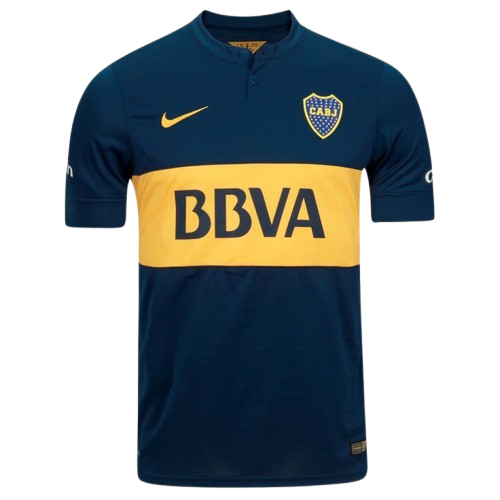
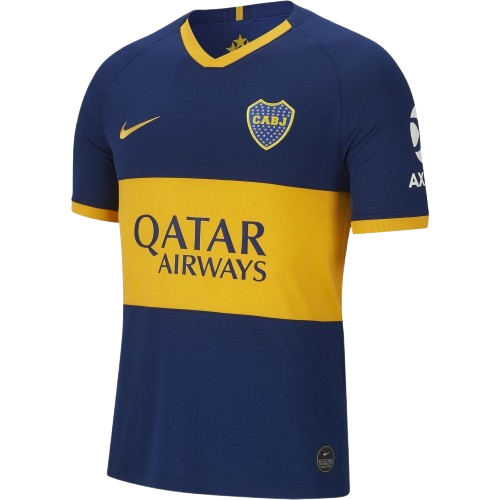
v1.2

diff --git a/index.html b/index.html
@@ -36,31 +36,31 @@
 <aside class="sidebar2">
     <nav>
         <ul>
-            <li><a href="#"><img src="images/ligas/turca.png" alt="Liga Turca" width="110px" height="100px"></a></li>
-            <li><a href="#"><img src="images/ligas/portuguesa.jpg" alt="Liga Portuguesa" width="110px" height="100px"></a></li>
-            <li><a href="#"><img src="images/ligas/saudi.png" alt="Liga Saudí" width="110px" height="100px"></a></li>
-            <li><a href="#"><img src="images/ligas/mls.png" alt="Liga Estadounidense" width="100px" height="90px"></a></li>
-            <li><a href="#"><img src="images/ligas/belga.jpg" alt="Liga Belga" width="110px" height="100px"></a></li>
+            <li><img src="images/ligas/turca.png" alt="Liga Turca" width="110px" height="100px"></li>
+            <li><img src="images/ligas/portuguesa.jpg" alt="Liga Portuguesa" width="110px" height="100px"></li>
+            <li><img src="images/ligas/saudi.png" alt="Liga Saudí" width="110px" height="100px"></li>
+            <li><img src="images/ligas/mls.png" alt="Liga Estadounidense" width="100px" height="90px"></li>
+            <li><img src="images/ligas/belga.jpg" alt="Liga Belga" width="110px" height="100px"></li>
         </ul>
     </nav>
 </aside>
 
 <main>
-    <section class="c1" title="Camiseta del Valencia"><img src="images/valencia.png" alt="Camiseta valencia" width="270px" height="300px"><p>VALENCIA CF 2ª EQUIPACION 24-25</p></section>
-    <section class="c2" title="Camiseta de Aston Villa"><img src="images/villa.png" alt="Camiseta villa" width="270px" height="300px"><p>ASTON VILLA 1ª EQUIPACION 24-25</p></section>
-    <section class="c3" title="Camiseta del PSG"><img src="images/psg.png" alt="Camiseta psg" width="270px" height="300px"><p>PSG 1ª EQUIPACION 15-16</p></section>
-    <section class="c4" title="Camiseta de Boca Juniors"><img src="images/boca.png" alt="Camiseta boca" width="270px" height="300px"><p>BOCA JUNIORS 1ª EQUIPACION 24-25</p></section>
-    <section class="c5" title="Camiseta del Atlético de Madrid"><img src="images/atleti.png" alt="Camiseta atleti" width="270px" height="300px"><p>ATLÉTICO DE MADRID 1ª EQUIPACION 20-21</p></section>
-    <section class="c6" title="Camiseta del Manchester City"><img src="images/city.png" alt="Camiseta city" width="270px" height="300px"><p>MANCHESTER CITY 1ª EQUIPACION 24-25</p></section>
-    <section class="c7" title="Camiseta del Liverpool"><img src="images/liverpool.png" alt="Camiseta liverpool" width="270px" height="300px"><p>LIVERPOOL TRAINING 24-25</p></section>
-    <section class="c8" title="Camiseta del Real Madrid"><img src="images/madrid.png" alt="Camiseta madrid" width="270px" height="300px"><p>REAL MADRID CF 1ª EQUIPACION 14-15</p></section>
-    <section class="c9" title="Camiseta del Manchester United"><img src="images/manunited.png" alt="Camiseta manunited" width="270px" height="300px"><p>MANCHESTER UNITED 2ª EQUIPACION 15-16</p></section>
-    <section class="c10" title="Camiseta del Bayern de Múnich"><img src="images/munchen.png" alt="Camiseta munchen" width="270px" height="300px"><p>BAYERN DE MÚNICH 1ª EQUIPACION 21-22</p></section>
-    <section class="c11" title="Camiseta del Negreira FC"><img src="images/negreira.png" alt="Camiseta negreira" width="270px" height="300px"><p>FC BARCELONA 3ª EQUIPACION 19-20</p></section>
-    <section class="c12" title="Camiseta de Perú"><img src="images/peru.png" alt="Camiseta peru" width="270px" height="300px"><p>PERÚ 1ª EQUIPACION 24-25</p></section>
-    <section class="c13" title="Camiseta de Colombia"><img src="images/colombia.png" alt="Camiseta colombia" width="280px" height="300px"><p>COLOMBIA 2ª EQUIPACION 22-23</p></section>
-    <section class="c14" title="Camiseta de España FC"><img src="images/españa.png" alt="Camiseta españa" width="270px" height="300px"><p>ESPAÑA 1ª EQUIPACION 24-25</p></section>
-    <section class="c15" title="Camiseta del Zenit"><img src="images/zenit.png" alt="Camiseta zenit" width="270px" height="300px"><p>ZENIT 1ª EQUIPACION 24-25</p></section>
+    <section><a href="https://www.futbollufo.com/nueva-camisetas-de-futbol-valencia-cf-segunda-20222023-p-19692.html" rel="noopener" class="c1" title="Camiseta del Valencia"><img src="images/valencia.png" alt="Camiseta valencia" width="270px" height="300px"><p>VALENCIA CF 2ª EQUIPACION 22-23</p></a></section>
+    <section><a href="https://www.futbollufo.com/nueva-camisetas-de-futbol-aston-villa-primera-20222023-p-19577.html" rel="noopener" class="c2" title="Camiseta del Aston Villa"><img src="images/villa.png" alt="Camiseta villa" width="280px" height="300px"><p>ASTON VILLA 1ª EQUIPACION 22-23</p></a></section>
+    <section><a href="https://www.futbollufo.com/camiseta-futbol-psg-retro-primera-20182019-p-7947.html" rel="noopener" class="c3" title="Camiseta del PSG"><img src="images/psg.png" alt="Camiseta psg" width="270px" height="300px"><p>PSG 1ª EQUIPACION 18-19</p></a></section>
+    <section><a href="https://www.futbollufo.com/primera-camiseta-del-boca-juniors-20182019-p-3147.html" rel="noopener" class="c4" title="Camiseta de Boca Juniors"><img src="images/boca.png" alt="Camiseta boca" width="270px" height="300px"><p>BOCA JUNIORS 1ª EQUIPACION 18-19</p></a></section>
+    <section><a href="#" rel="noopener" class="c5" title="Camiseta del Atletico de Madrid"><img src="images/atleti.png" alt="Camiseta atleti" width="270px" height="300px"><p>ATLÉTICO DE MADRID 1ª EQUIPACION 20-21</p></a></section>
+    <section><a href="#" rel="noopener" class="c6" title="Camiseta del Manchester City"><img src="images/city.png" alt="Camiseta city" width="270px" height="300px"><p>MANCHESTER CITY 1ª EQUIPACION 24-25</p></a></section>
+    <section><a href="#" rel="noopener" class="c7" title="Camiseta del Liverpool"><img src="images/liverpool.png" alt="Camiseta liverpool" width="270px" height="300px"><p>LIVERPOOL TRAINING 24-25</p></a></section>
+    <section><a href="#" rel="noopener" class="c8" title="Camiseta del Real Madrid"><img src="images/madrid.png" alt="Camiseta madrid" width="270px" height="300px"><p>REAL MADRID CF 1ª EQUIPACION 14-15</p></a></section>
+    <section><a href="#" rel="noopener" class="c9" title="Camiseta del Manchester United"><img src="images/manunited.png" alt="Camiseta manunited" width="270px" height="300px"><p>MANCHESTER UNITED 2ª EQUIPACION 15-16</p></a></section>
+    <section><a href="#" rel="noopener" class="c10" title="Camiseta del Bayern Munchen"><img src="images/munchen.png" alt="Camiseta munchen" width="270px" height="300px"><p>BAYERN DE MÚNICH 1ª EQUIPACION 21-22</p></a></section>
+    <section><a href="#" rel="noopener" class="c11" title="Camiseta del Barcelona CF"><img src="images/negreira.png" alt="Camiseta negreira" width="270px" height="300px"><p>FC BARCELONA 3ª EQUIPACION 19-20</p></a></section>
+    <section><a href="#" rel="noopener" class="c12" title="Camiseta de Perú"><img src="images/peru.png" alt="Camiseta peru" width="270px" height="300px"><p>PERÚ 1ª EQUIPACION 24-25</p></a></section>
+    <section><a href="#" rel="noopener" class="c13" title="Camiseta de Colombia"><img src="images/colombia.png" alt="Camiseta colombia" width="280px" height="300px"><p>COLOMBIA 2ª EQUIPACION 22-23</p></a></section>
+    <section><a href="#" rel="noopener" class="c14" title="Camiseta de España"><img src="images/españa.png" alt="Camiseta españa" width="270px" height="300px"><p>ESPAÑA 1ª EQUIPACION 24-25</p></a></section>
+    <section><a href="#" rel="noopener" class="c15" title="Camiseta del Zenit de Sanpetesburgo"><img src="images/zenit.png" alt="Camiseta zenit" width="270px" height="300px"><p>ZENIT 1ª EQUIPACION 24-25</p></a></section>
 </main>
 
 <footer>
